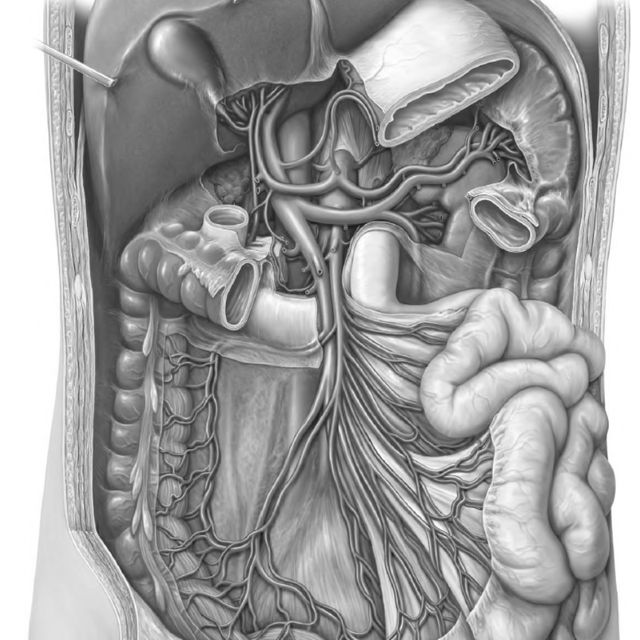
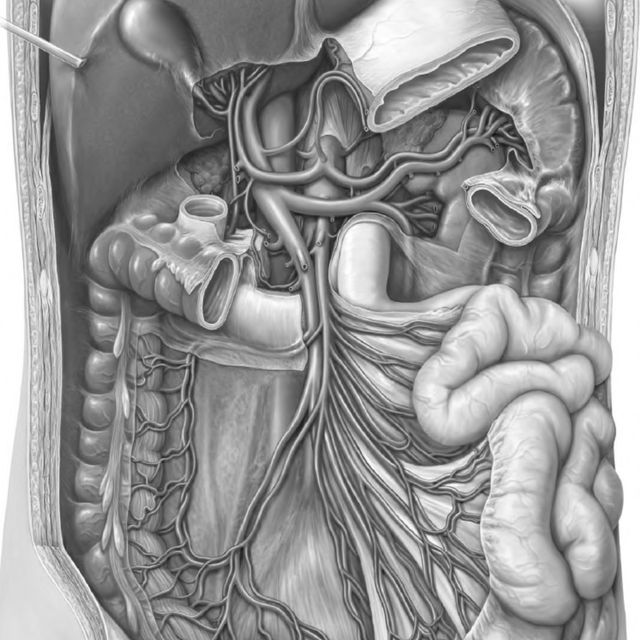
換首頁方磚圖：腹部急症改用 abdemer、計分工具改用含說明段落的 SOFA 表
- emergency.jpg：換成構圖更完整的腹腔解剖圖（原圖上緣切在肝臟，新圖含
  完整肝、膽囊、脾與腸繫膜血管樹）
- sofa.png：換成含上方說明段落的版本，長寬比 1.29（原 1.77），補白邊後
  在方磚裡佔得更滿

檔名沿用分類名，故 index.html 與 sw.js 的路徑不動；CACHE_VERSION v133→v134
強制既有使用者重抓這兩張圖（同 URL 換內容，否則要等背景更新才會換）。

diff --git a/sw.js b/sw.js
@@ -7,7 +7,7 @@
  *     手機網路下每頁數十次往返，開啟明顯變慢，故改為本策略。
  * CACHE_VERSION 僅在需要強制清除舊快取時修改。
  */
-const CACHE_VERSION = 'clinical-tools-v133';
+const CACHE_VERSION = 'clinical-tools-v135';
 
 // 以相對路徑列出，方便部署於子路徑（如 GitHub Pages /clinical-scores/）
 const PRECACHE_URLS = [
@@ -36,6 +36,10 @@ const PRECACHE_URLS = [
   './js/endo-pathway.js',
   './js/utsarc-pathway.js',
   './js/ovarian-pathway.js',
+  './js/utuc-pathway.js',
+  './js/rcc-pathway.js',
+  './js/bladder-pathway.js',
+  './js/prostate-pathway.js',
   './data/antibiotics/antibiogram.js',
   './data/antibiotics/regimens.js',
   './data/antibiotics/drugs.js',